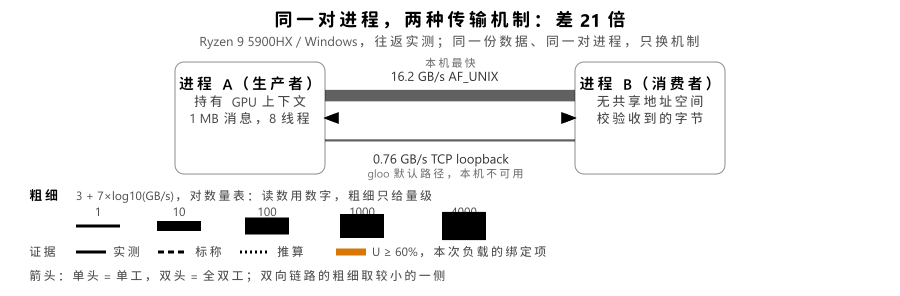
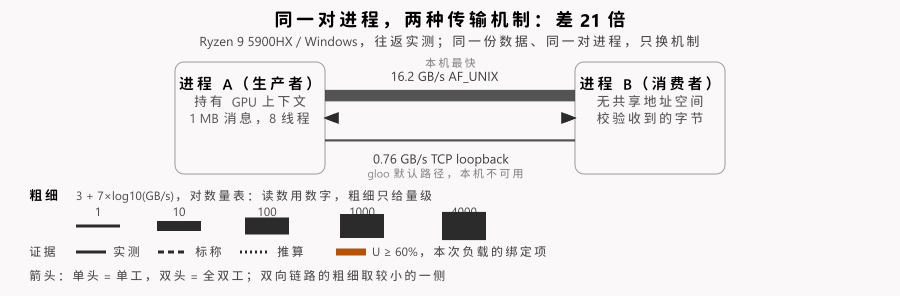
vault backup: 2026-10-29 18:07:49

diff --git a/tools/envmap.py b/tools/envmap.py
@@ -34,8 +34,13 @@ CJK_ADV = 13.0
 PAD = 14
 GROUP_GAP = 66
 BLOCK_GAP = 26
-INK = "currentColor"
-ACCENT = "#d97706"
+# The figure is embedded as an <img>, i.e. a standalone SVG document: currentColor
+# resolves to black there and disappears on a dark theme, and an <img> cannot see the
+# page's theme toggle. So the figure carries its own paper, matched to the site's
+# light background: invisible in light mode, a legible card in dark mode.
+PAPER = "#faf8f8"
+INK = "#2b2b2b"
+ACCENT = "#b45309"
 
 
 def text_w(s, size=FONT):
@@ -128,7 +133,7 @@ def node_svg(n):
     for i, line in enumerate(n.lines):
         out.append(f'<text x="{n.x + n.w / 2:.1f}" y="{ty + (i + 1) * (FONT + 4):.1f}" '
                    f'text-anchor="middle" font-size="{FONT}" fill="{INK}" '
-                   f'fill-opacity="0.72">{esc(line)}</text>')
+                   f'fill-opacity="0.78">{esc(line)}</text>')
     return "".join(out)
 
 
@@ -210,7 +215,7 @@ def render(spec):
                 x = lane if lane is not None else (p0[0] + p1[0]) / 2
                 d, lx, ly = f"M{x:.1f},{p0[1]:.1f} L{x:.1f},{p1[1]:.1f}", x, (p0[1] + p1[1]) / 2
             dash = {"measured": "", "spec": "6 4", "derived": "2 3"}[lk.get("evidence", "measured")]
-            attrs = [f'd="{d}"', f'stroke="{colour}"', f'stroke-opacity="{0.95 if bind else 0.62}"',
+            attrs = [f'd="{d}"', f'stroke="{colour}"', f'stroke-opacity="{1 if bind else 0.8}"',
                      f'stroke-width="{w:.1f}"', 'fill="none"']
             if dash:
                 attrs.append(f'stroke-dasharray="{dash}"')
@@ -234,7 +239,7 @@ def render(spec):
                 tx = lx - text_w(label) / 2
                 ty = ly + side * (w / 2 + 9) + (0 if side < 0 else FONT)
                 body.append(f'<text x="{tx:.1f}" y="{ty:.1f}" font-size="{FONT}" '
-                            f'fill="{colour}" fill-opacity="{0.95 if bind else 0.8}">'
+                            f'fill="{colour}" fill-opacity="{1 if bind else 0.9}">'
                             f'{esc(label)}</text>')
                 if lk.get("note"):
                     ny = ly + side * (w / 2 + 23) + (0 if side < 0 else FONT)
@@ -244,11 +249,11 @@ def render(spec):
             else:
                 tx = lx + w / 2 + 10
                 body.append(f'<text x="{tx:.1f}" y="{ly - 3:.1f}" font-size="{FONT}" '
-                            f'fill="{colour}" fill-opacity="{0.95 if bind else 0.8}">'
+                            f'fill="{colour}" fill-opacity="{1 if bind else 0.9}">'
                             f'{esc(label)}</text>')
                 if lk.get("note"):
                     body.append(f'<text x="{tx:.1f}" y="{ly + 13:.1f}" font-size="{FONT - 2}" '
-                                f'fill="{INK}" fill-opacity="0.55">{esc(lk["note"])}</text>')
+                                f'fill="{INK}" fill-opacity="0.6">{esc(lk["note"])}</text>')
 
     body += [node_svg(n) for n in nodes.values()]
     leg, bottom = legend(spec, content_end + 26)
@@ -258,10 +263,47 @@ def render(spec):
     sub = ""
     if spec.get("subtitle"):
         sub = (f'<text x="{W / 2:.1f}" y="46" text-anchor="middle" font-size="{FONT}" '
-               f'fill-opacity="0.65">{esc(spec["subtitle"])}</text>')
+               f'fill-opacity="0.7">{esc(spec["subtitle"])}</text>')
     return (f'<svg xmlns="http://www.w3.org/2000/svg" viewBox="0 0 {W} {bottom:.0f}" '
             f'width="{W}" height="{bottom:.0f}" font-family="system-ui, -apple-system, '
-            f'Segoe UI, sans-serif" color="{INK}">{title}{sub}{"".join(body)}{leg}</svg>')
+            f'Segoe UI, sans-serif" color="{INK}" role="img">'
+            f'<rect width="{W}" height="{bottom:.0f}" fill="{spec.get("paper", PAPER)}"/>'
+            f'<title>{esc(spec.get("title", ""))}</title>'
+            f'<desc>{esc(spec.get("subtitle", ""))}</desc>'
+            f'{title}{sub}{"".join(body)}{leg}</svg>')
+
+
+def check(svg, spec):
+    """Fail loudly on the defects this renderer produced while it was being written:
+    overlapping text, text outside the canvas, and width not monotone in bandwidth.
+    Geometry only, no vision needed."""
+    import re
+    W = spec["width"]
+    H = float(re.search(r'height="(\d+)"', svg).group(1))
+    boxes = []
+    for m in re.finditer(r'<text x="([-\d.]+)" y="([-\d.]+)"([^>]*)>([^<]*)</text>', svg):
+        x, y, attrs, raw = float(m.group(1)), float(m.group(2)), m.group(3), m.group(4)
+        size = float(re.search(r'font-size="([\d.]+)"', attrs).group(1))
+        w = text_w(raw, size)
+        if 'text-anchor="middle"' in attrs:
+            x -= w / 2
+        boxes.append((x, y - size * 0.85, x + w, y + size * 0.25, raw))
+    bad = []
+    for i, a in enumerate(boxes):
+        if a[0] < 0 or a[2] > W + 1 or a[1] < 0 or a[3] > H:
+            bad.append(f"outside canvas: {a[4]!r} ({a[0]:.0f}..{a[2]:.0f} x {a[1]:.0f}..{a[3]:.0f})")
+        for b in boxes[i + 1:]:
+            dx = min(a[2], b[2]) - max(a[0], b[0])
+            dy = min(a[3], b[3]) - max(a[1], b[1])
+            if dx > 1.5 and dy > 1.5:
+                bad.append(f"text overlap: {a[4]!r} / {b[4]!r}")
+    ws = sorted((lk["bw"], stroke_w(lk["bw"], spec["scale"])) for lk in spec["links"])
+    for (b1, w1), (b2, w2) in zip(ws, ws[1:]):
+        if w2 < w1 - 0.01:
+            bad.append(f"width not monotone: {b1:g} -> {b2:g} GB/s")
+    if bad:
+        raise SystemExit("\n".join(bad))
+    return len(boxes)
 
 
 def main():
@@ -270,9 +312,10 @@ def main():
         return 1
     spec = json.loads(Path(sys.argv[1]).read_text(encoding="utf-8"))
     svg = render(spec)
+    n = check(svg, spec)
     if len(sys.argv) > 2:
         Path(sys.argv[2]).write_text(svg, encoding="utf-8")
-        print(f'{sys.argv[2]}: {len(svg)} bytes')
+        print(f'{sys.argv[2]}: {len(svg)} bytes, {n} labels, no overlap')
     else:
         sys.stdout.write(svg)
     return 0

diff --git a/content/软件工程/缓存与并发的矛盾.md b/content/软件工程/缓存与并发的矛盾.md
@@ -63,7 +63,7 @@
 
 最终结果是：
 
-\[ DB=v 2,\qquad Cache=v 1 \]
+$$ DB=v 2,\qquad Cache=v 1 $$
 
 **删除发生时缓存可能是空的，但删除之后，旧读请求又把旧数据放了回来。**
 
